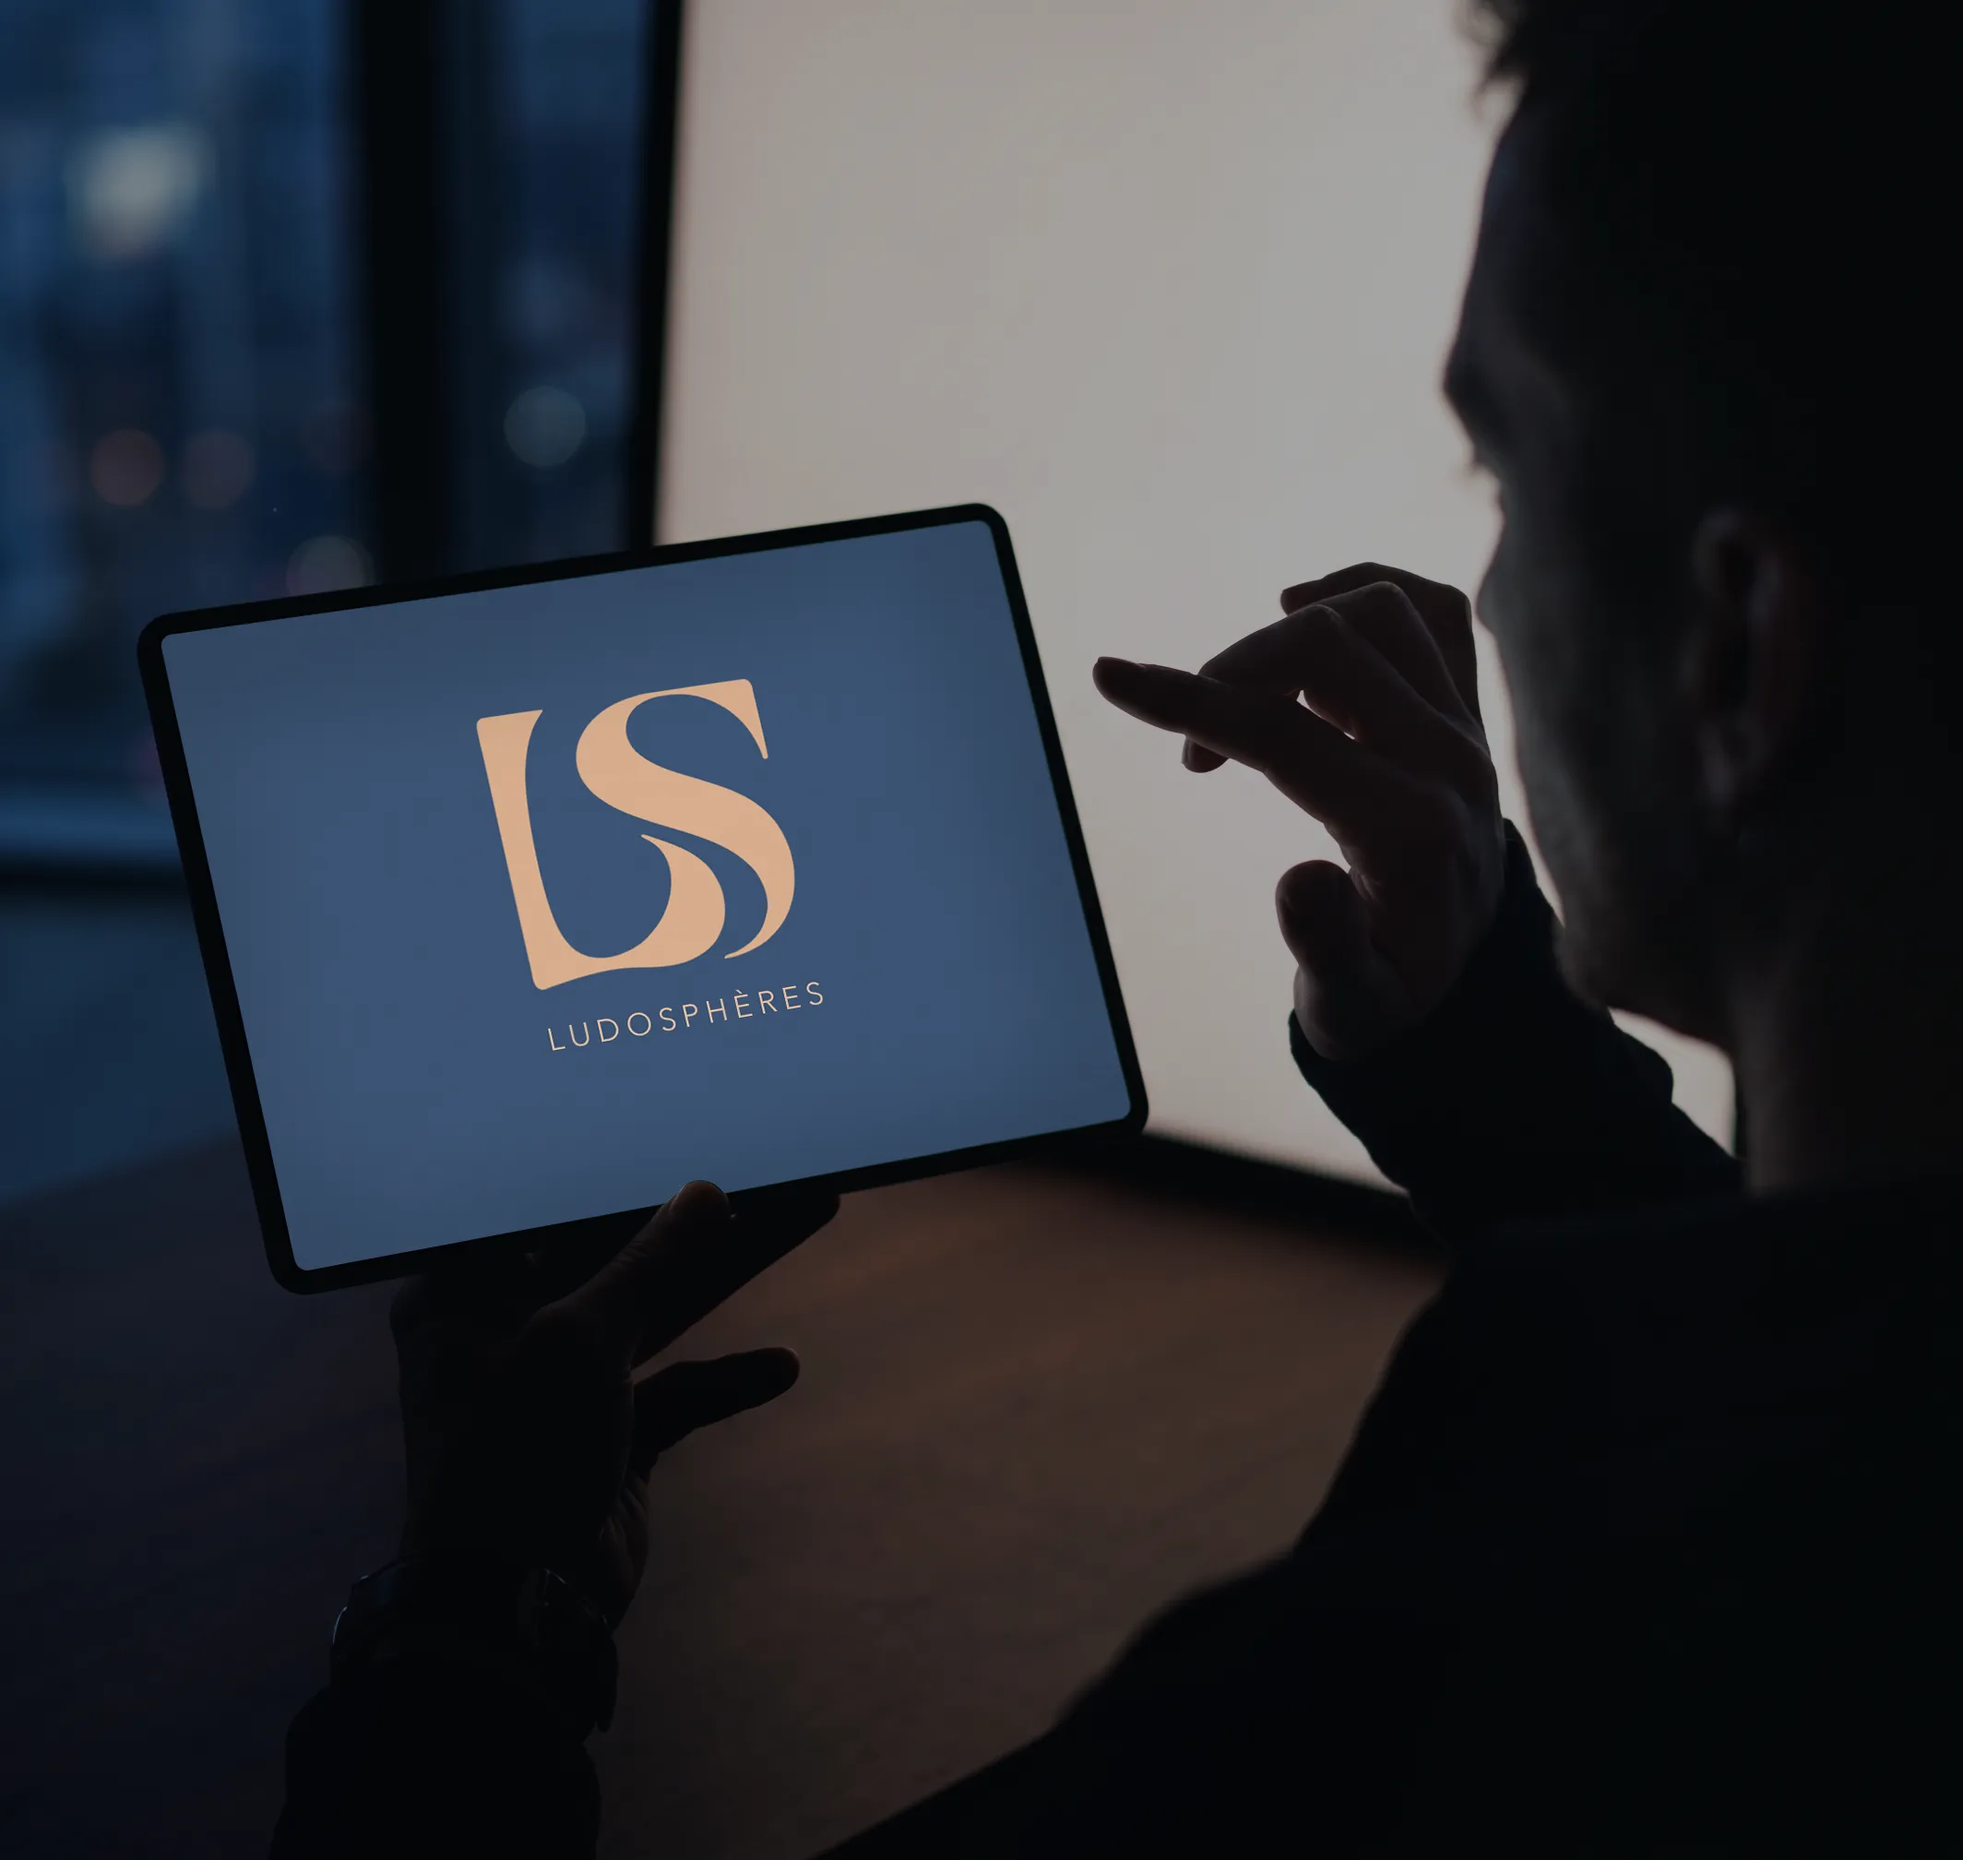
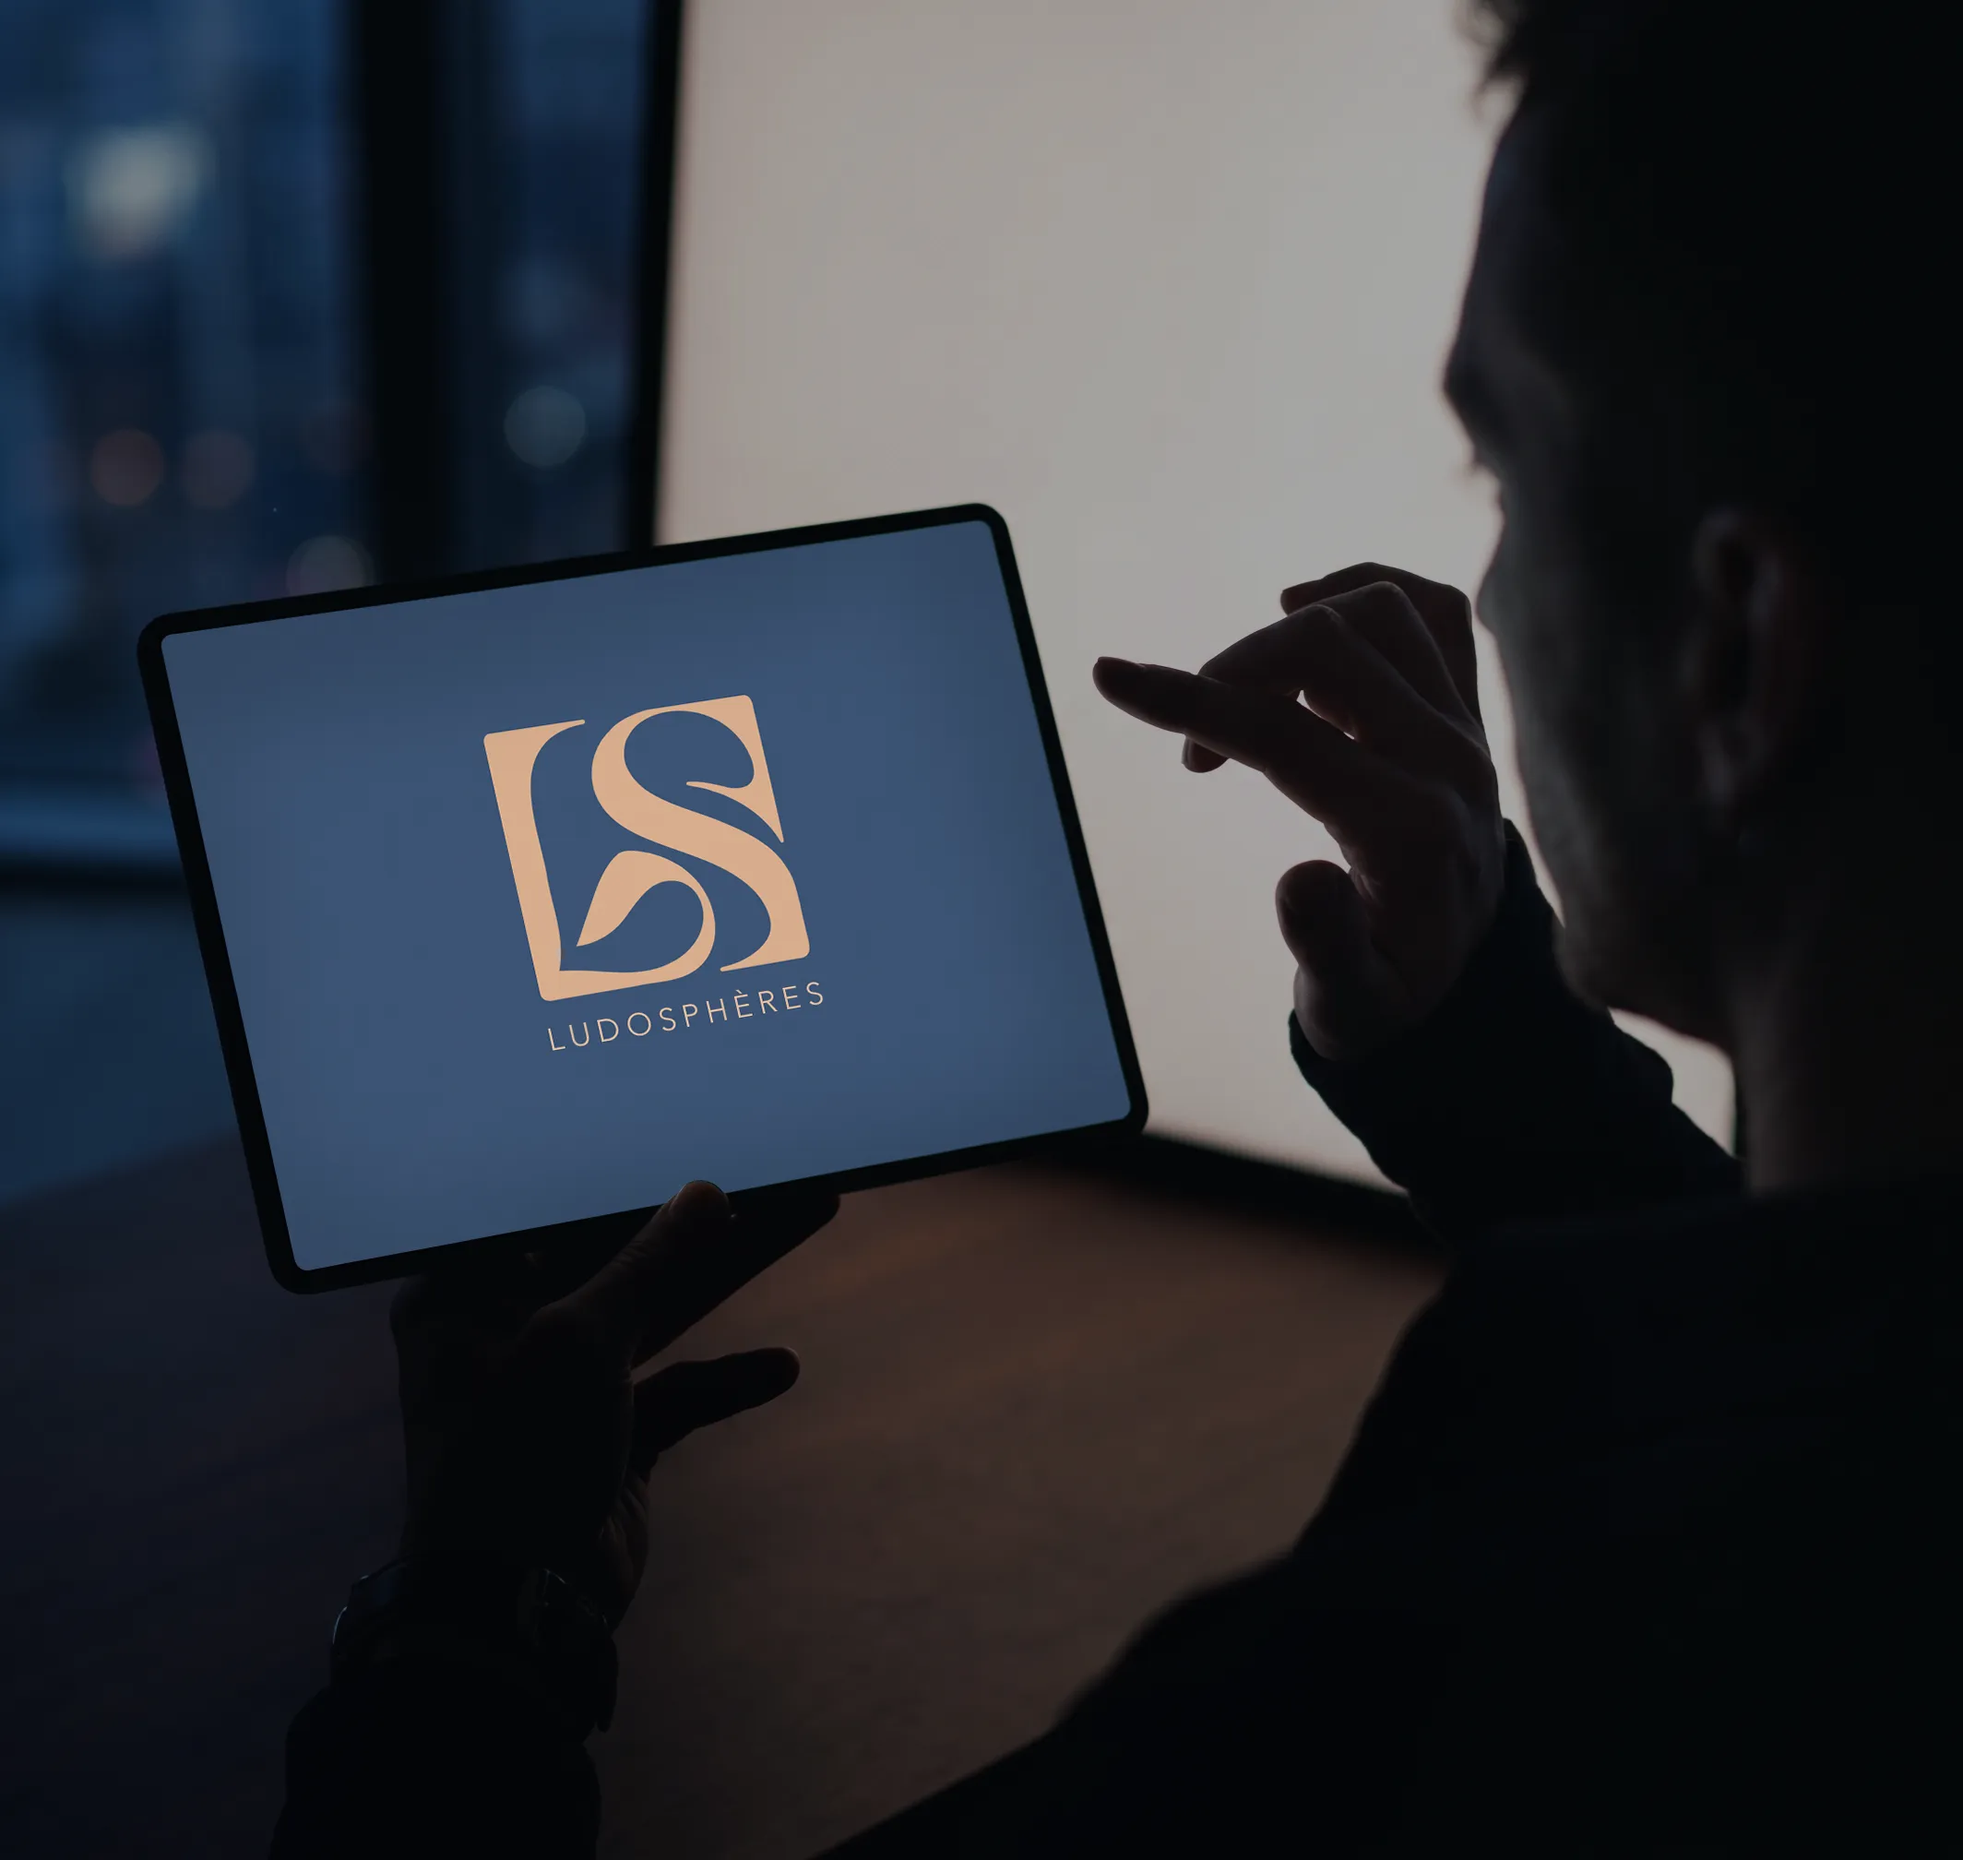
feat: images

Changed region(s): [[0.2481, 0.3438, 0.4342, 0.5625]]

diff --git a/website/src/routes/services/+page.svelte b/website/src/routes/services/+page.svelte
@@ -35,9 +35,9 @@
   const designSlides = [
      { image: "/images/naming.webp", alt: "Naming et fondations", label: "Naming & fondations", caption: "Un nom, un ton et des repères qui posent des bases solides pour la marque." },
     { image: "/images/ipad-logo.webp", alt: "Logo", label: "Logo", caption: "Création de logo cohérent et déclinable, pensé pour installer une présence immédiate et mémorable." },
-    { image: "/images/justx_couleurs.webp", alt: "Identité visuelle", label: "Identité visuelle", caption: "De la palette de couleurs, aux typographies, nous concevons un univers visuel cohérent, répondant aux valeurs de la marque." },
-    { image: "/images/charte-typo.webp", alt: "Présentation de la typographie", label: "Charte éditoriale", caption: "Une nouvelle manière de communiquer en adaptant le ton et l'expérience." },
-    { image: "/images/parfum_ordinateur.webp", alt: "Suivi stratégique", label: "Suivi & stratégie", caption: "Un accompagnement dans la durée mêlant stratégie, suivi détaillé et reportings, pour faire évoluer la marque avec cohérence." }
+    { image: "/images/justx-couleurs2.webp", alt: "Identité visuelle", label: "Identité visuelle", caption: "De la palette de couleurs, aux typographies, nous concevons un univers visuel cohérent, répondant aux valeurs de la marque." },
+    { image: "/images/carte-ludo.webp", alt: "Présentation de la typographie", label: "Charte éditoriale", caption: "Une nouvelle manière de communiquer en adaptant le ton et l'expérience." },
+    { image: "/images/ipad-ludo.webp", alt: "Suivi stratégique", label: "Suivi & stratégie", caption: "Un accompagnement dans la durée mêlant stratégie, suivi détaillé et reportings, pour faire évoluer la marque avec cohérence." }
   ];
 
   // Studio — toute l'image de la marque : captation, DA, réseaux, contenu, 3D.

diff --git a/website/src/routes/apropos/+page.svelte b/website/src/routes/apropos/+page.svelte
@@ -20,7 +20,7 @@
 <div class="apropos-intro-showcase">
   <AboutEditorialSingleShowcase
     text="Organisée en <span class='hl'>trois pôles</span> complémentaires, l'agence accompagne chaque marque du <span class='hl'>conseil</span> stratégique à la <span class='hl'>création</span> digitale, jusqu'à la <span class='hl'>production</span> de contenus."
-    image="/images/justx.webp"
+    image="/images/cartes-agence.webp"
     alt="Direction artistique Agence 3 Terres"
     mediaMinHeight="38rem"
     showAccent={false}

diff --git a/website/src/lib/components/contact/Contact.svelte b/website/src/lib/components/contact/Contact.svelte
@@ -80,7 +80,7 @@
   <div
     class="contact-bg"
     class:is-visible={bgVisible}
-    style="background-image: url('/images/agence.webp')"
+    style="background-image: url('/images/cartes-agence.webp')"
   ></div>
   <div class="contact-overlay"></div>
 
